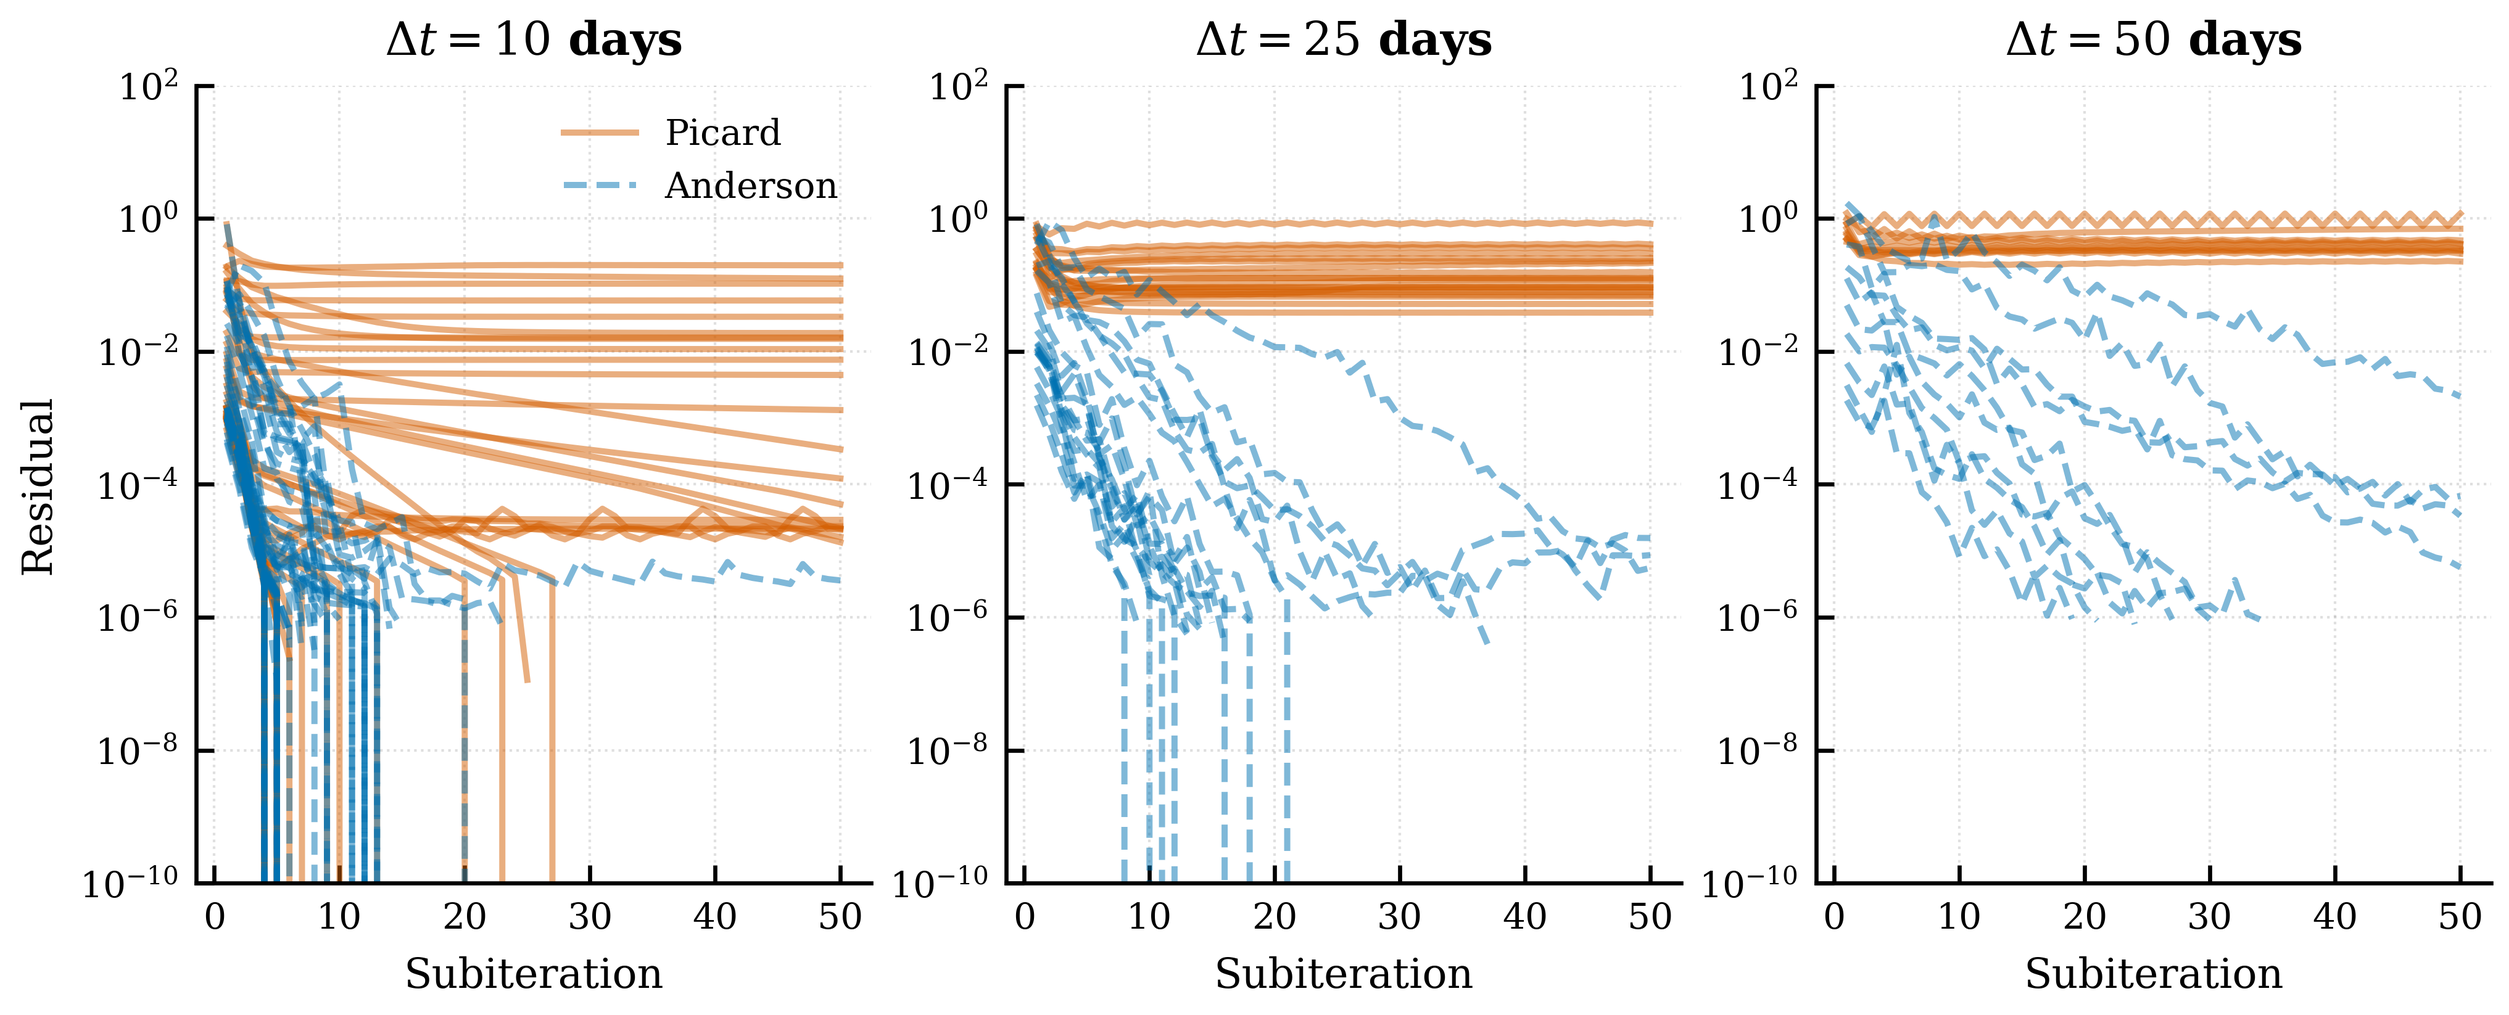
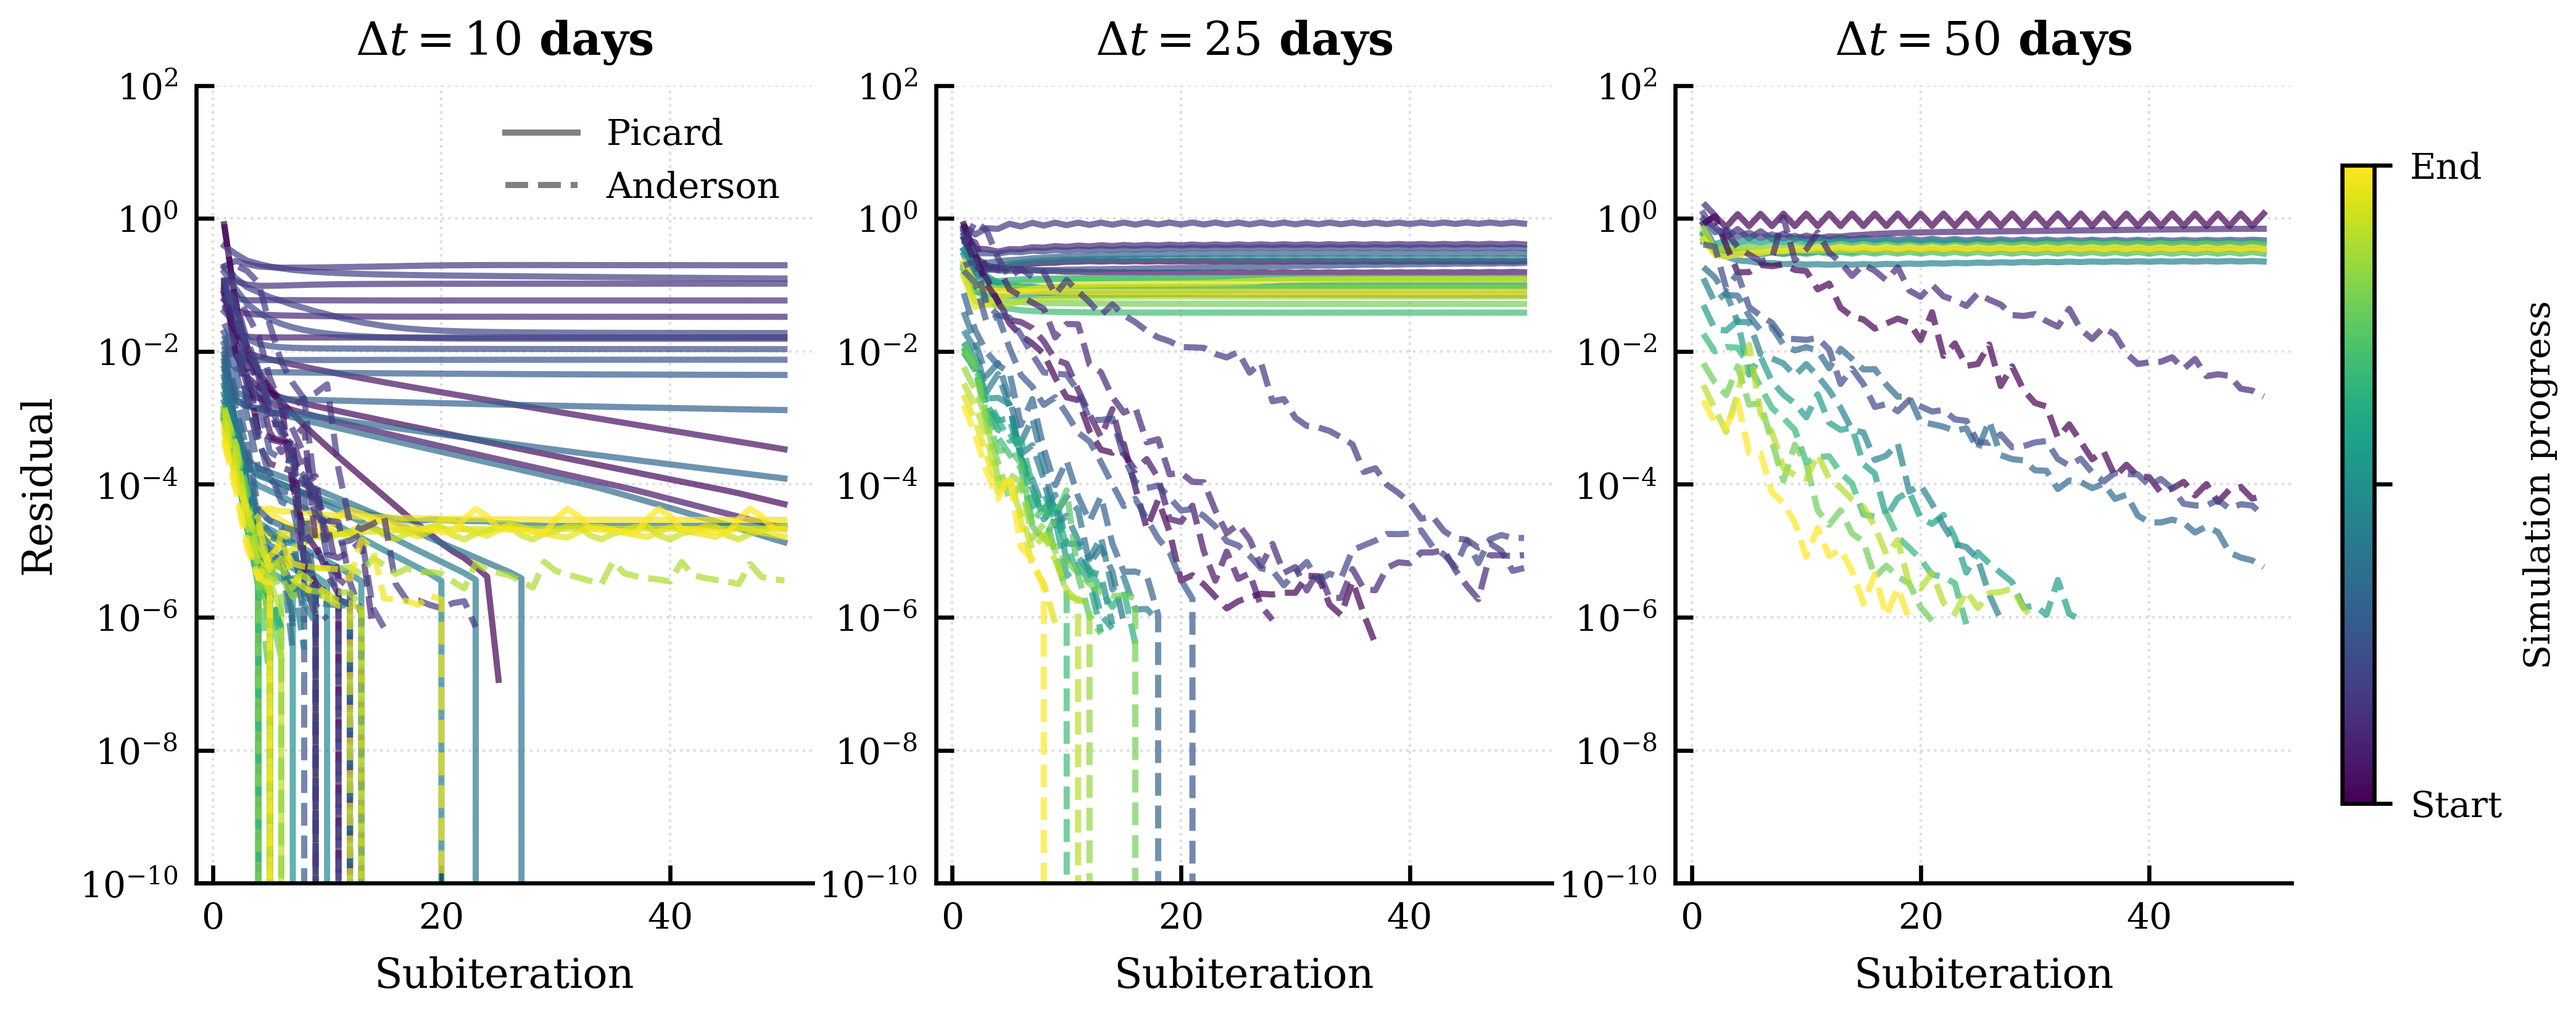
Adjust fixed mesh resolution in run_anderson_sweep to 24 and enhance visualization in anderson_vs_picard_plot with color mapping and a colorbar for simulation progress

diff --git a/analysis/anderson_vs_picard_plot.py b/analysis/anderson_vs_picard_plot.py
@@ -171,7 +171,13 @@ def main() -> None:
     apply_style()
     
     n_dt = len(dt_values)
-    fig, axes = plt.subplots(1, n_dt, figsize=(min(3.5 * n_dt, FIGSIZE_DOUBLE_COLUMN[0]), 2.8), squeeze=False)
+    # Extra width for colorbar
+    fig, axes = plt.subplots(1, n_dt, figsize=(min(3.5 * n_dt, FIGSIZE_DOUBLE_COLUMN[0]) + 0.8, 2.8), squeeze=False)
+    
+    # Use viridis colormap for timestep progression
+    from matplotlib.colors import Normalize
+    from matplotlib.cm import ScalarMappable
+    cmap = plt.cm.viridis
 
     for j, dt in enumerate(dt_values):
         ax = axes[0, j]
@@ -181,22 +187,23 @@ def main() -> None:
             if key not in runs:
                 continue
             sub = runs[key]["subiters"]
-            color = ACCEL_COLORS[accel]
             ls = ACCEL_LINESTYLES[accel]
+            
+            steps = sorted(sub["step"].unique())
+            n_steps = len(steps)
+            norm = Normalize(vmin=0, vmax=n_steps - 1)
 
-            # Convergence curves: overlay all timesteps with same color per method
-            first_line = True
-            for step in sorted(sub["step"].unique()):
+            # Convergence curves: color by timestep progression
+            for i, step in enumerate(steps):
                 sd = sub[sub["step"] == step].sort_values("iter")
-                line, = ax.plot(
+                color = cmap(norm(i))
+                ax.plot(
                     sd["iter"].values, sd["proj_res"].values,
-                    alpha=PLOT_ALPHA_OVERLAY,
+                    alpha=0.7,
                     linestyle=ls,
                     linewidth=PLOT_LINEWIDTH,
                     color=color,
-                    label=ACCEL_LABELS[accel] if first_line else None,
                 )
-                first_line = False
 
         setup_axis_style(
             ax,
@@ -208,8 +215,22 @@ def main() -> None:
         ax.set_yscale("log")
         ax.set_ylim(1e-10, 1e2)
         
+        # Add linestyle legend for methods (first plot only)
         if j == 0:
-            ax.legend(loc="upper right")
+            from matplotlib.lines import Line2D
+            legend_elements = [
+                Line2D([0], [0], color="gray", linestyle="-", linewidth=PLOT_LINEWIDTH, label="Picard"),
+                Line2D([0], [0], color="gray", linestyle="--", linewidth=PLOT_LINEWIDTH, label="Anderson"),
+            ]
+            ax.legend(handles=legend_elements, loc="upper right")
+
+    # Add colorbar for timestep progression
+    sm = ScalarMappable(cmap=cmap, norm=Normalize(vmin=0, vmax=1))
+    sm.set_array([])
+    cbar = fig.colorbar(sm, ax=axes.ravel().tolist(), shrink=0.8, aspect=20, pad=0.02)
+    cbar.set_label("Simulation progress", fontsize=7)
+    cbar.set_ticks([0, 0.5, 1])
+    cbar.set_ticklabels(["Start", "", "End"])
 
     save_manuscript_figure(fig, output_file.name, dpi=PUBLICATION_DPI)
     print(f"\nSaved: {output_file}")

diff --git a/run_anderson_sweep.py b/run_anderson_sweep.py
@@ -128,7 +128,7 @@ def main() -> None:
     box = params["box"]
     
     # Fixed mesh resolution for acceleration comparison
-    FIXED_N = 32
+    FIXED_N = 24
     
     # Sweep parameters
     accel_types = ["picard", "anderson"]
